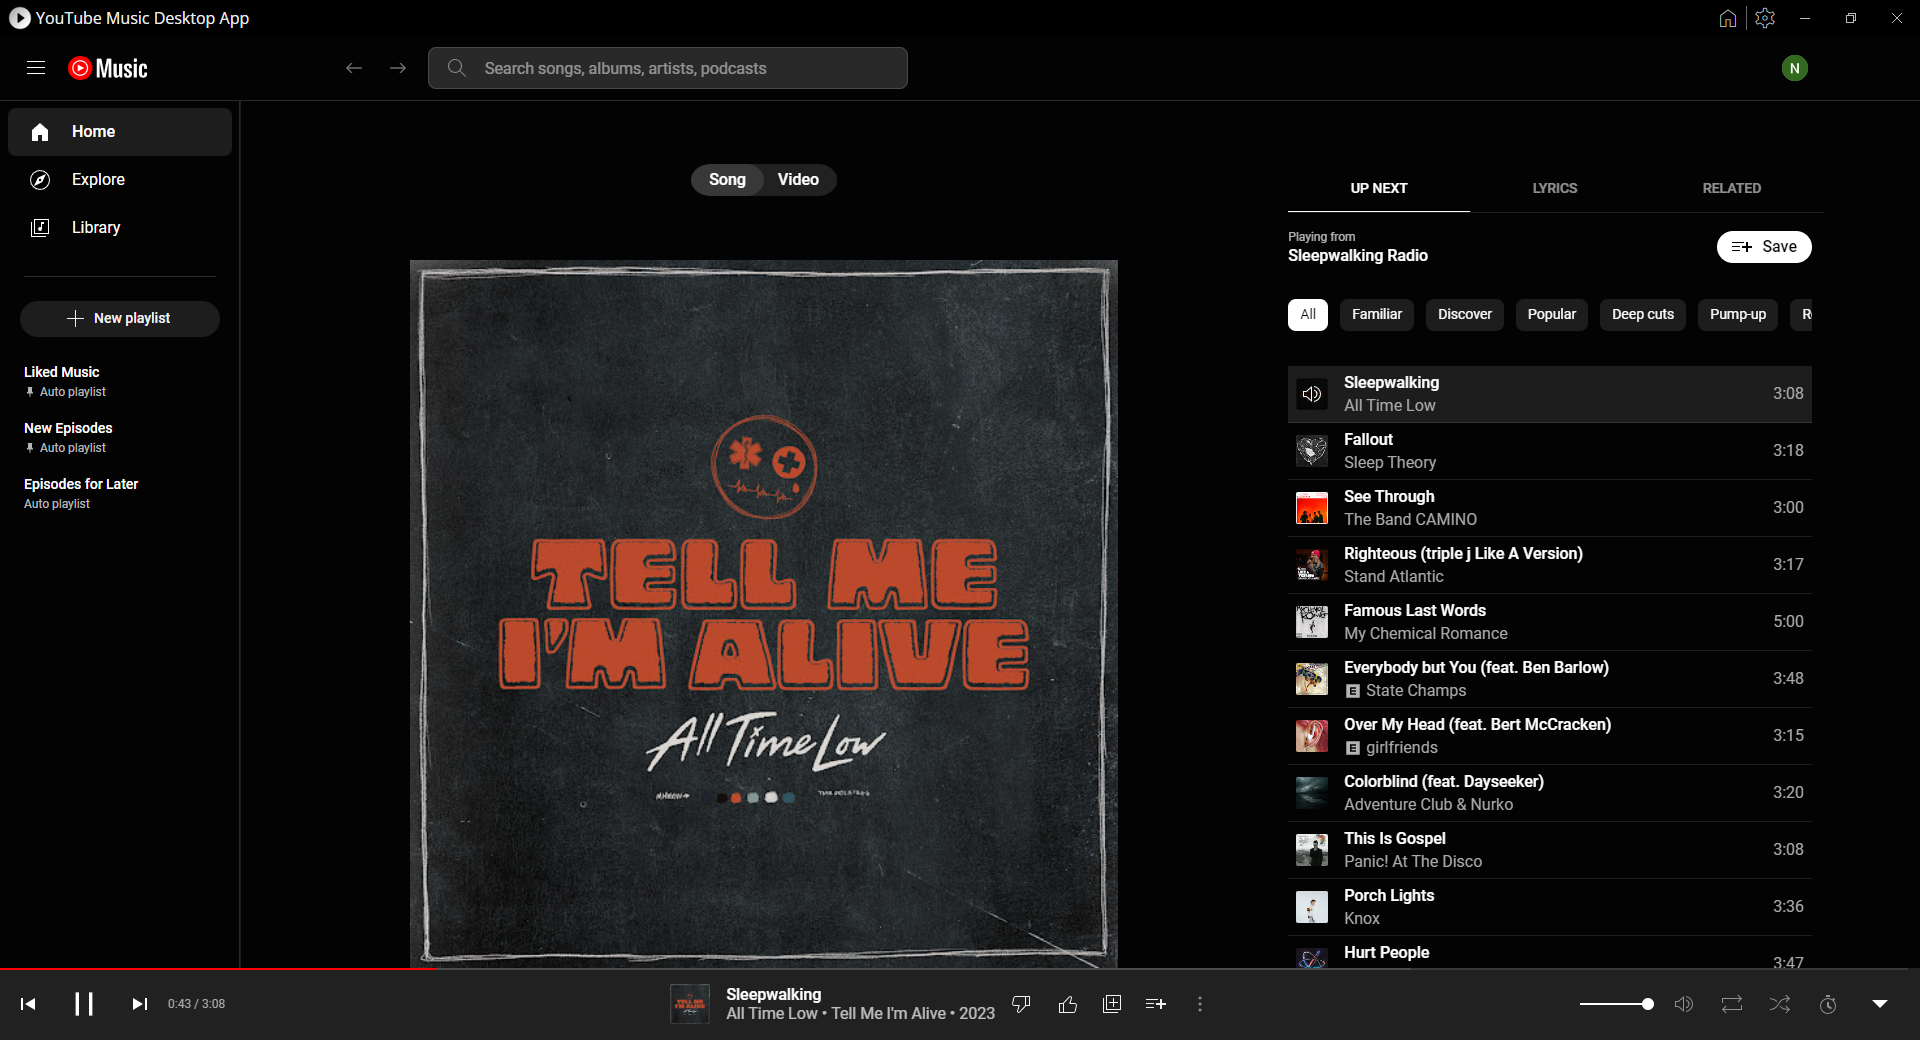
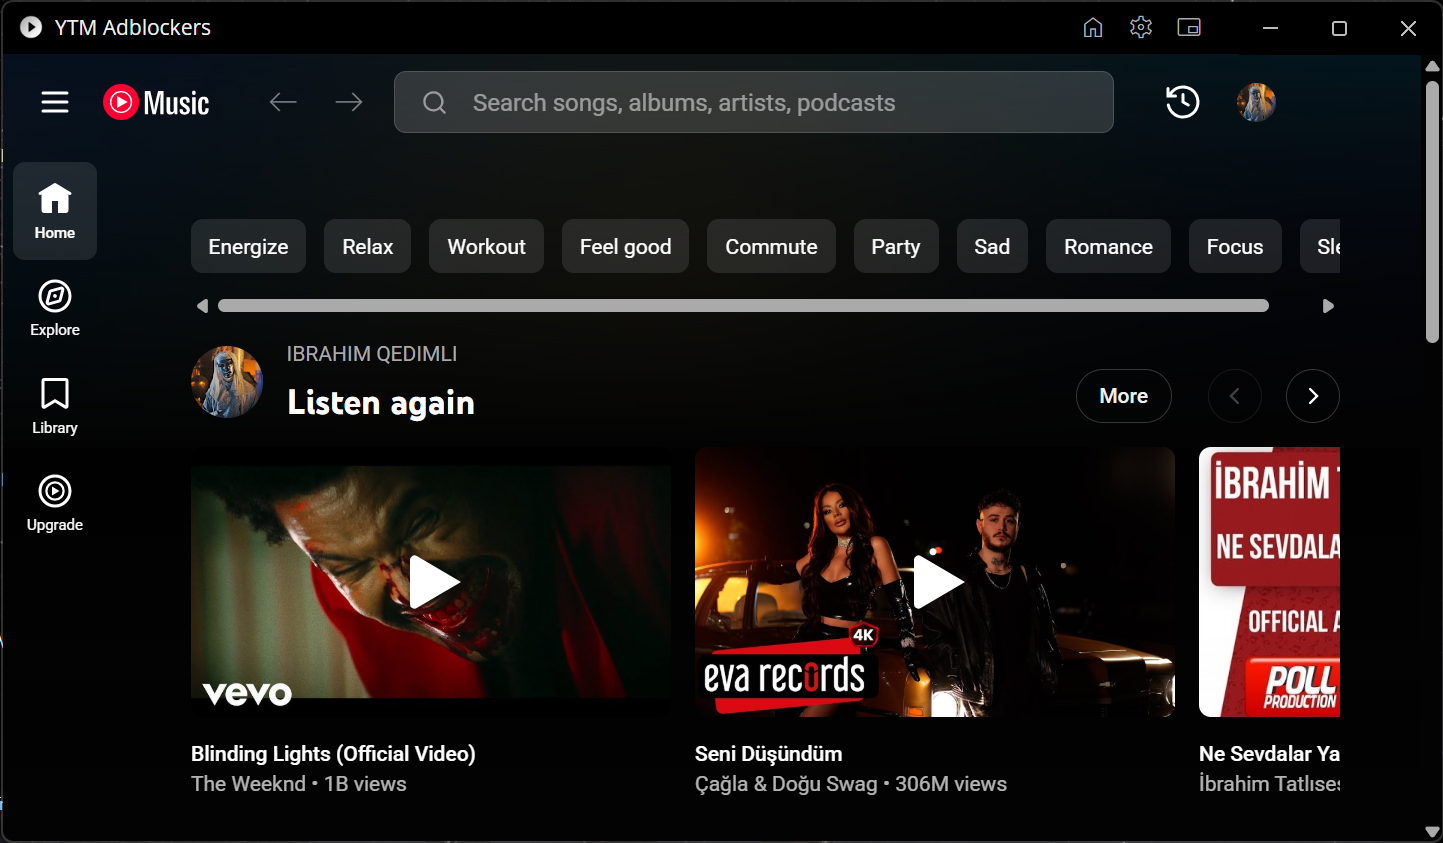
Update README: new screenshot, badges and links for YTM Adblockers

diff --git a/README.md b/README.md
@@ -1,57 +1,42 @@
 # YTM Adblockers
-### YouTube Music Desktop App with adblocking modifications
+### YouTube Music Desktop App with Ad-Blocking & SponsorBlock
 
-> **Note:** This project is based on [ytmdesktop/ytmdesktop](https://github.com/ytmdesktop/ytmdesktop) (GPL-3.0), with adblocking modifications. All credit for the original application goes to the ytmdesktop team.
+![YTM Adblockers](.github/images/readme_main_app.png)
 
-![YouTube Music Desktop App](.github/images/readme_main_app.png)
-
-[![Discord][discord-img]][discord-url]
-[![Gitmoji][gitmoji-img]][gitmoji-url]
-[![GitHub license][license-img]][license-url]
-[![GitHub release][release-img]][release-url]
+[![License][license-img]][license-url]
+[![Release][release-img]][release-url]
 [![Download][download-img]][download-url]
 
-<!--
-TODO: Write guides for v2. While these may still be helpful they are geared towards v1
-#### 📖 Guide:
-1. [How to use](https://github.com/ytmdesktop/ytmdesktop/wiki/How-use)
-2. [FAQ](https://github.com/ytmdesktop/ytmdesktop/wiki/FAQ)
--->
+> **Note:** This project is a fork of [ytmdesktop/ytmdesktop](https://github.com/ytmdesktop/ytmdesktop) (GPL-3.0). All credit for the original application goes to the ytmdesktop team and contributors.
 
-# ⬇ Download at
-<a href="https://repology.org/project/ytmdesktop/versions">
-	<img type="image/svg" align="right" src="https://repology.org/badge/vertical-allrepos/ytmdesktop.svg" alt="Packaging status"/>
-</a>
-
+# ⬇ Download
 #### Windows
-<!--
-### UPDATE THESE PLATFORMS ###
-- Chocolatey: ```choco install ytmdesktop```
--->
-- Winget: ```winget install "YouTube Music Desktop App"``` or ```winget install Ytmdesktop.Ytmdesktop```
-- Scoop: ```scoop bucket add extras``` then ```scoop install ytmdesktop``` (Community Maintained)
-- Binaries: <https://github.com/ytmdesktop/ytmdesktop/releases>
+- **Setup (installer):** [YTM Adblockers Setup beta](https://github.com/elsenqedimli1234-dot/ytm-adblockers/releases)
+- **Portable (no install):** [YTM Adblockers Portable beta](https://github.com/elsenqedimli1234-dot/ytm-adblockers/releases)
 
-#### Linux
-<!--
-### UPDATE THESE PLATFORMS ###
-- Snap: <https://snapcraft.io/youtube-music-desktop-app>
--->
-- Arch Linux (AUR): <https://aur.archlinux.org/packages/ytmdesktop> (Community Maintained)
-- Binaries: <https://github.com/ytmdesktop/ytmdesktop/releases>
+Download the latest release from the [Releases](https://github.com/elsenqedimli1234-dot/ytm-adblockers/releases) page.
 
-#### Mac
-- Brew: ```brew install --cask ytmdesktop-youtube-music``` (Community Maintained)
-- Binaries: <https://github.com/ytmdesktop/ytmdesktop/releases>
+# ✨ Features
+- 🎵 Listen to YouTube Music in a dedicated desktop application
+- 🛡 **Built-in ad blocking** — updated URL filters
+- ⏭ **SponsorBlock** integration with per-category skip settings:
+  - Automatic skipping
+  - Ask at the beginning of the video
+  - Manual skip (tiny button appears during the segment)
+  - Disabled
+  - Categories: Sponsor, Self-promotion, Interaction reminder, Interlude / Intro animation, End screen / Credits, Preview, Non-Music section
+- Continue where you left off
+- Custom CSS support
+- Discord Rich Presence
 
-# Developing
+Developing
 To clone and run this repository you'll need [Git](https://git-scm.com) and [Node.js (v20)](https://nodejs.org/en/download/) (which comes with [npm](http://npmjs.com)) installed on your computer. From your command line:
 
 ```sh
 # Clone this repository
-git clone https://github.com/ytmdesktop/ytmdesktop.git
+git clone https://github.com/elsenqedimli1234-dot/ytm-adblockers.git
 # Go into the directory
-cd ytmdesktop
+cd ytm-adblockers
 ```
 ##### And:
 ```sh
@@ -65,81 +50,28 @@ yarn start
 ```
 
 # Building the Project
-To build for your platform you need to run `yarn make`, however please see the information below regarding the required additionally Software, Tools and Packages which are needed to successfully package into a nice installer file.
-
-## Windows
-To download the full suite of Tools/Software needed to build the app it is recommended to install the suite of build tools that electron provide which includes Visual Studio, Python and other tools.
+To build for your platform run `yarn make`. Building for Windows requires the electron build tools:
 
 `npm i -g @electron/build-tools`
 
-This will start downloading and installing, and may require a few prompts here and there to finalise everything.
-
-<!--
-TODO: Fill this information in
-## MacOS
-*to do*
--->
+To package without making installers just run `yarn package`.
 
 ## Linux
 Building the project on Linux only requires you to install:
-- For building on Debian based Linux Distros like Ubuntu, you will need to install `fakeroot` and `dpkg`
-- For building on RedHat based Linux Distros like Fedora, you will need to install `rpm` or `rpm-build`
+- For Debian based distros like Ubuntu: `fakeroot` and `dpkg`
+- For RedHat based distros like Fedora: `rpm` or `rpm-build`
 
-*please note that by default both packages are built if you try building this application on a linux distro*
+## License
 
-<!--
-### Note to the note, I suspect this has been fixed now, testing myself I was able to run the software without anything extra, although did have to sepecify `--disable-gpu` to run.
-**Note:** If you're using Windows Subsystem for Linux (WSL2), [see this guide][more] or use `node` from the command prompt. -->
+This project is licensed under the [GNU GPL-3.0](LICENSE), inherited from the original ytmdesktop project.
 
-<!--
-Project currently doesn't have Locales, so Ignore this for now.
-## To contribute for your own language
-Navigate to [ytmdesktop-locales](https://github.com/ytmdesktop/ytmdesktop-locales) and follow the instructions there.
--->
+## Credits
 
-## Contributors
+Based on [ytmdesktop/ytmdesktop](https://github.com/ytmdesktop/ytmdesktop) — a thank you to all the [original project contributors](https://github.com/ytmdesktop/ytmdesktop#contributors) for making this possible.
 
-A Thank you to all the contributors throughout the project, without their work this project would have just been a small project and never expanded to where it is now.
-
-[<img alt="adlerluiz" src="https://avatars.githubusercontent.com/u/2112638?v=4&s=240" width="120" height="120">](https://github.com/adlerluiz)
-[<img alt="NovusTheory" src="https://avatars.githubusercontent.com/u/3434404?v=4&s=240" width="120" height="120">](https://github.com/NovusTheory)
-[<img alt="mingjun97" src="https://avatars.githubusercontent.com/u/15214491?v=4&s=240" width="120" height="120">](https://github.com/mingjun97)
-[<img alt="rickpalmeira" src="https://avatars.githubusercontent.com/u/4140033?v=4&s=240" width="120" height="120">](https://github.com/rickpalmeira)
-[<img alt="Alipoodle" src="https://avatars.githubusercontent.com/u/17199186?v=4&s=240" width="120" height="120">](https://github.com/Alipoodle)
-[<img alt="flleeppyy" src="https://avatars.githubusercontent.com/u/18307183?v=4&s=240" width="120" height="120">](https://github.com/flleeppyy)
-[<img alt="zagoruev" src="https://avatars.githubusercontent.com/u/986243?v=4&s=240" width="120" height="120">](https://github.com/zagoruev)
-[<img alt="Venipa" src="https://avatars.githubusercontent.com/u/17952364?v=4&s=240" width="120" height="120">](https://github.com/Venipa)
-[<img alt="serjan-nasredin" src="https://avatars.githubusercontent.com/u/67647968?v=4&s=240" width="120" height="120">](https://github.com/serjan-nasredin)
-[<img alt="TotalChris" src="https://avatars.githubusercontent.com/u/41809916?v=4&s=240" width="120" height="120">](https://github.com/TotalChris)
-[<img alt="ArnyminerZ" src="https://avatars.githubusercontent.com/u/12086466?v=4&s=240" width="120" height="120">](https://github.com/ArnyminerZ)
-[<img alt="TotallyNotInUse" src="https://avatars.githubusercontent.com/u/56458705?v=4&s=240" width="120" height="120">](https://github.com/TotallyNotInUse)
-[<img alt="ddarkr" src="https://avatars.githubusercontent.com/u/6638675?v=4&s=240" width="120" height="120">](https://github.com/ddarkr)
-[<img alt="pinkiesky" src="https://avatars.githubusercontent.com/u/7098424?v=4&s=240" width="120" height="120">](https://github.com/pinkiesky)
-[<img alt="NNowakowski" src="https://avatars.githubusercontent.com/u/16933892?v=4&s=240" width="120" height="120">](https://github.com/NNowakowski)
-[<img alt="dm3ch" src="https://avatars.githubusercontent.com/u/5025313?v=4&s=240" width="120" height="120">](https://github.com/dm3ch)
-[<img alt="Vistaus" src="https://avatars.githubusercontent.com/u/1716229?v=4&s=240" width="120" height="120">](https://github.com/Vistaus)
-[<img alt="smarquespt" src="https://avatars.githubusercontent.com/u/1302668?v=4&s=240" width="120" height="120">](https://github.com/smarquespt)
-[<img alt="peter9811" src="https://avatars.githubusercontent.com/u/22783445?v=4&s=240" width="120" height="120">](https://github.com/peter9811)
-[<img alt="KageRyo" src="https://avatars.githubusercontent.com/u/36478298?v=4&s=240" width="120" height="120">](https://github.com/KageRyo)
-[<img alt="andrew000" src="https://avatars.githubusercontent.com/u/11490628?v=4&s=240" width="120" height="120">](https://github.com/andrew000)
-[<img alt="danparidae" src="https://avatars.githubusercontent.com/u/7272087?v=4&s=240" width="120" height="120">](https://github.com/danparidae)
-[<img alt="tbvjaos510" src="https://avatars.githubusercontent.com/u/32216112?v=4&s=240" width="120" height="120">](https://github.com/tbvjaos510)
-[<img alt="andia89" src="https://avatars.githubusercontent.com/u/6475757?v=4&s=240" width="120" height="120">](https://github.com/andia89)
-[<img alt="nils-kt" src="https://avatars.githubusercontent.com/u/34674720?v=4&s=240" width="120" height="120">](https://github.com/nils-kt)
-[<img alt="Nerogar" src="https://avatars.githubusercontent.com/u/3390934?v=4&s=240" width="120" height="120">](https://github.com/Nerogar)
-[<img alt="nattadasu" src="https://avatars.githubusercontent.com/u/49780229?v=4&s=240" width="120" height="120">](https://github.com/nattadasu)
-[<img alt="mkotb" src="https://avatars.githubusercontent.com/u/6364146?v=4&s=240" width="120" height="120">](https://github.com/mkotb)
-[<img alt="chaoky" src="https://avatars.githubusercontent.com/u/9826702?v=4&s=240" width="120" height="120">](https://github.com/chaoky)
-[<img alt="ElectricalBoy" src="https://avatars.githubusercontent.com/u/15651807?v=4&s=240" width="120" height="120">](https://github.com/ElectricalBoy)
-
-[discord-img]: https://img.shields.io/badge/Discord-JOIN-GREEN.svg?style=for-the-badge&logo=discord
-[discord-url]: https://discord.gg/88P2n2a
[1 lines of base64/hex data omitted]
-[gitmoji-url]: https://gitmoji.carloscuesta.me
-[license-img]: https://img.shields.io/github/license/ytmdesktop/ytmdesktop.svg?style=for-the-badge&logo=librarything
-[license-url]: https://github.com/ytmdesktop/ytmdesktop/blob/master/LICENSE
-[release-img]: https://img.shields.io/github/release/ytmdesktop/ytmdesktop.svg?style=for-the-badge&logo=flattr
-[release-url]: https://GitHub.com/ytmdesktop/ytmdesktop/releases/
[1 lines of base64/hex data omitted]
-[download-url]: https://github.com/ytmdesktop/ytmdesktop/releases/
-[more]: https://www.howtogeek.com/261575/how-to-run-graphical-linux-desktop-applications-from-windows-10s-bash-shell/
+[license-img]: https://img.shields.io/badge/LICENSE-GPL--3.0--only-orange.svg?style=for-the-badge&logo=librarything
+[license-url]: https://github.com/elsenqedimli1234-dot/ytm-adblockers/blob/master/LICENSE
+[release-img]: https://img.shields.io/github/v/release/elsenqedimli1234-dot/ytm-adblockers.svg?style=for-the-badge&logo=flattr
+[release-url]: https://github.com/elsenqedimli1234-dot/ytm-adblockers/releases
+[download-img]: https://img.shields.io/github/downloads/elsenqedimli1234-dot/ytm-adblockers/total.svg?style=for-the-badge&logo=cloudsmith
+[download-url]: https://github.com/elsenqedimli1234-dot/ytm-adblockers/releases/
